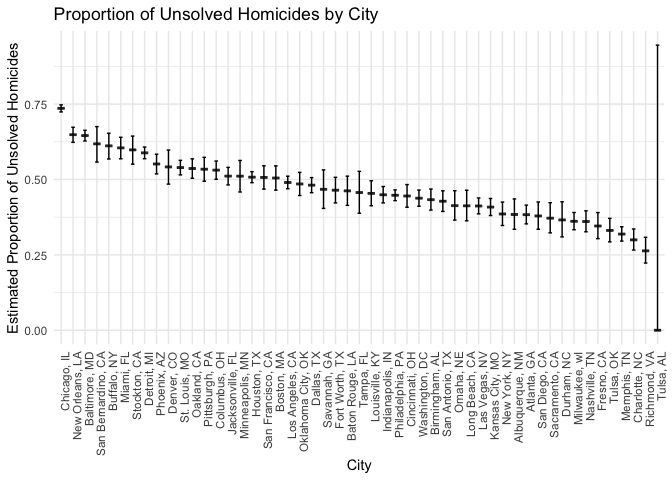
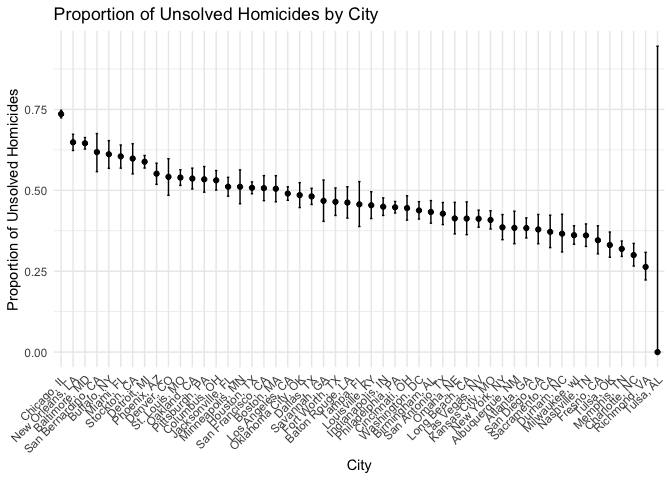
revised Q3

Changed region(s): [[0.0, 0.6875, 1.0, 0.9375], [0.0938, 0.25, 0.9688, 0.5938], [0.0, 0.0938, 0.0938, 0.6875]]

diff --git a/p8105_hw5_sq2266.md b/p8105_hw5_sq2266.md
@@ -110,8 +110,9 @@ power_plot
 ```
 
 ![](p8105_hw5_sq2266_files/figure-gfm/unnamed-chunk-8-1.png)<!-- -->
-
-## average and true mean plot
+\###description: we can see a positive relationship between effect size
+and power. When the effect size increases, the power increases. Vice
+versa.
 
 ``` r
 average_results = 
@@ -123,6 +124,8 @@ average_results =
     .groups = "drop"
   )
 ```
+
+## average and true mean plot
 
 ``` r
 average_plot =
@@ -210,66 +213,72 @@ unsolved_bal = sum(pull(baltimore_df, disposition) %in% c("Closed without arrest
 ``` r
 prop_test = prop.test(x = unsolved_bal, n = total_bal)
 prop_test_df = broom::tidy(prop_test)
+prop_test_df
 ```
+
+    ## # A tibble: 1 × 8
+    ##   estimate statistic  p.value parameter conf.low conf.high method    alternative
+    ##      <dbl>     <dbl>    <dbl>     <int>    <dbl>     <dbl> <chr>     <chr>      
+    ## 1    0.646      239. 6.46e-54         1    0.628     0.663 1-sample… two.sided
 
 ## proportion of each city
 
 ``` r
-city_prop_test = 
-  homicide|>
-  mutate(
-    victim_last = str_to_title(victim_last),
-    victim_first = str_to_title(victim_first),
-    city_state = paste(city, state, sep = ", ")  
-  ) |>
-  drop_na() |>
-  
+city_prop =
+  homicide_clean |>
   group_by(city_state) |>
   summarise(
-    total_homicide = n(),
-    unsolved_homicide = sum(disposition %in% c("Closed without arrest", "Open/No arrest"))
+    total_cases = n(),
+    unsolved_cases = sum(disposition %in% c("Closed without arrest", "Open/No arrest")),
+    .groups = "drop"
   ) |>
   mutate(
-    prop_test = map2(unsolved_homicide, total_homicide, ~ prop.test(.x, .y)), 
-    prop_test_tidy = map(prop_test, broom::tidy)  
+    prop_results = map2(
+      unsolved_cases, total_cases,
+      ~ prop.test(.x, .y, correct = TRUE)  
+    ),
+    
+    tidy_results = map(prop_results, broom::tidy)
   ) |>
+
+  unnest(tidy_results) |>
   
-  unnest(prop_test_tidy) |>
-  
-  select(city_state, total_homicide, unsolved_homicide, estimate, conf.low, conf.high) |>
-  rename(
-    estimated_proportion = estimate,
-    conf_int_lower = conf.low,
-    conf_int_upper = conf.high
+  select(
+    city_state,
+    estimate = estimate,  
+    conf.low, 
+    conf.high 
   )
 ```
 
     ## Warning: There was 1 warning in `mutate()`.
-    ## ℹ In argument: `prop_test = map2(unsolved_homicide, total_homicide,
-    ##   ~prop.test(.x, .y))`.
+    ## ℹ In argument: `prop_results = map2(unsolved_cases, total_cases, ~prop.test(.x,
+    ##   .y, correct = TRUE))`.
     ## Caused by warning in `prop.test()`:
     ## ! Chi-squared approximation may be incorrect
 
 ``` r
-city_prop_test =
-  city_prop_test |>
-  arrange(desc(estimated_proportion)) |>
+city_prop_df =
+  city_prop |>
+  arrange(desc(estimate)) |>  
   mutate(city_state = factor(city_state, levels = city_state)) 
 ```
 
 ## making a plot
 
 ``` r
-ggplot(city_prop_test, aes(x = city_state, y = estimated_proportion)) +
-  geom_boxplot(aes(group = city_state), width = 0.6) +  
-  geom_errorbar(aes(ymin = conf_int_lower, ymax = conf_int_upper), width = 0.3) +  
+prop_plot =
+  ggplot(city_prop_df, aes(x = city_state, y = estimate)) +
+  geom_point() +  
+  geom_errorbar(aes(ymin = conf.low, ymax = conf.high), width = 0.2) +  
   labs(
     title = "Proportion of Unsolved Homicides by City",
     x = "City",
-    y = "Estimated Proportion of Unsolved Homicides"
+    y = "Proportion of Unsolved Homicides"
   ) +
   theme_minimal() +
-  theme(axis.text.x = element_text(angle = 90, hjust = 1))
+  theme(axis.text.x = element_text(angle = 45, hjust = 1))  
+print(prop_plot)
 ```
 
 ![](p8105_hw5_sq2266_files/figure-gfm/unnamed-chunk-19-1.png)<!-- -->
